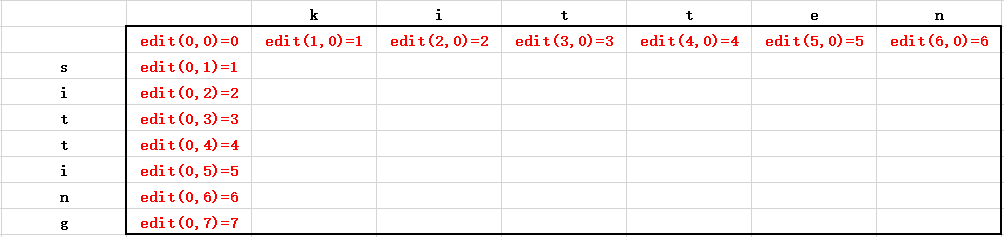
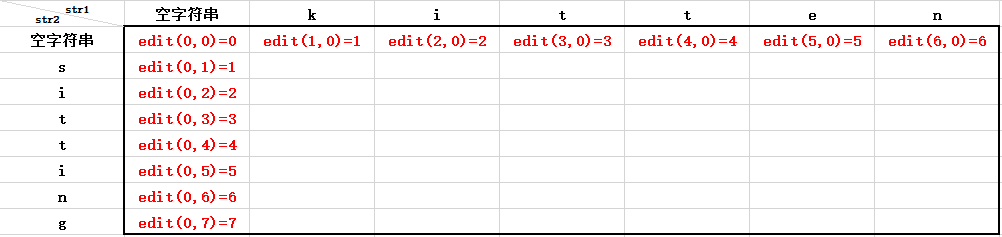
init

diff --git a/articles/Algorithm/_posts/2018-01-07-Levenshtein距离.md b/articles/Algorithm/_posts/2018-01-07-Levenshtein距离.md
@@ -7,16 +7,16 @@ tag:  Algorithm
 ## 概念
 　　Levenshtein 距离，又叫编辑距离(Edit Distance)，指从一个字符串转成另一个字符串所需要最少编辑次数。编辑距离越大，说明两个字符串越不相似。编辑操作包括插入、删除、替换字符。
 
-　　举个例子：kitten -> sitting
+　　举个例子：sitting -> kitten
 ```console
-sitten  (k -> s)
-sittin  (e -> i)
-sitting ( -> g)
+kitting  (s -> k)
+kitteng  (i -> e)
+kitten   ( <- g)
 ```
 
 　　相似度计算公式为`1 - editDistance / Math.max(str1.length, str2.length)`
 
-　　kitten 和 sitting 两个字符串的编辑距离为3。相似度为`1-3/Math.max(6,7)`，`4/7`。
+　　sitting 和 kitten 两个字符串的编辑距离为3。相似度为`1-3/Math.max(6,7)`，`4/7`。
 ## 主要应用领域
 * DNA序列分析
 * 拼音检查
@@ -30,7 +30,11 @@ sitting ( -> g)
 　　通过动态规划将问题分解为3个部分。
 1. `if(n == 0) edit(n,m) = m`
 2. `if(m == 0) edit(n,m) = n`
-3. `if(n > 0 && m > 0) edit(n,m) = Math.min(edit(n-1,j)+1, edit(n,m-1)+1, edit(n-1,m-1)+f(n,m) )`，其中`f(n,m)`的值取决于`str1`的第`n`个字符是否等于`str2`的第`m`个字符，如果相等，则为`0`，反之为`1`。其中`edit(n-1,m)+1`
+3. `if(n > 0 && m > 0) edit(n,m) = Math.min(edit(n-1,j)+1, edit(n,m-1)+1, edit(n-1,m-1)+f(n,m) )`，其中`f(n,m)`的值取决于`str1`的第`n`个字符是否等于`str2`的第`m`个字符，如果相等，则为`0`，反之为`1`。
 
-　　图解：首先初始化一个`(n+1)*(m+1)`的矩阵，以`kitten`和`sitting`为例。
+　　图解：首先初始化一个`(n+1)*(m+1)`的矩阵，以`str1="sitting"`和`str2="kitten"`为例，构造一个`8*7`的矩阵如下。
 ![有帮助的截图]({{ site.url }}/assets/levenshtein1.PNG)
+　　根据蓝色部分，`edit(1,1) = Math.min(edit(0,1)+1, edit(1,0)+1, edit(0,0)+f(1,1)) = 1`。
+![有帮助的截图]({{ site.url }}/assets/levenshtein2.PNG)
+　　依此类推，直到计算到`edit(n,m)`。
+![有帮助的截图]({{ site.url }}/assets/levenshtein3.PNG)
